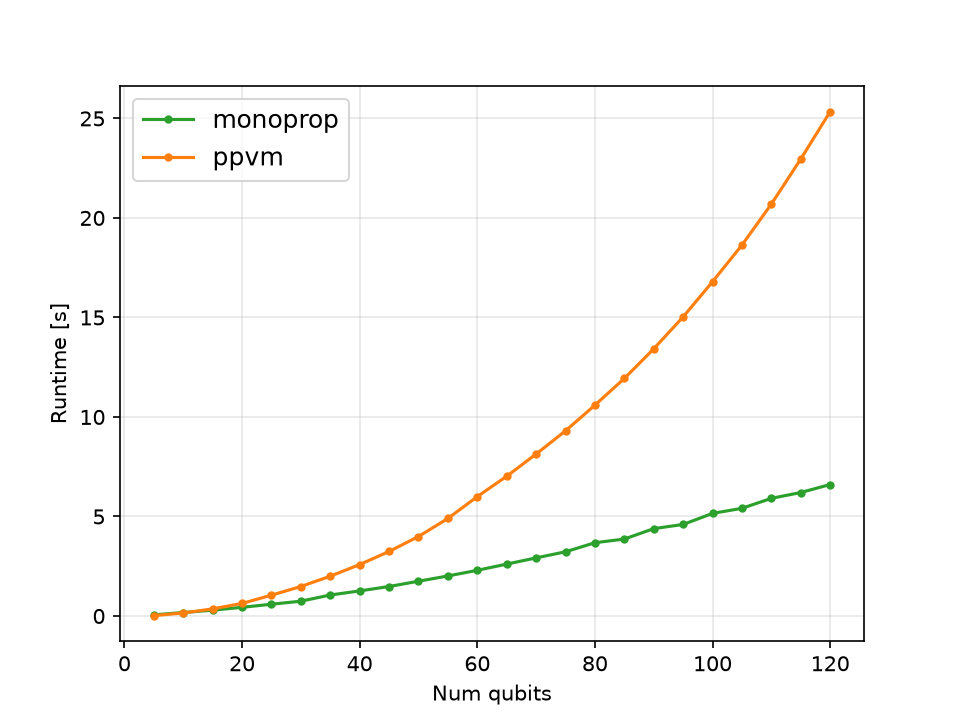
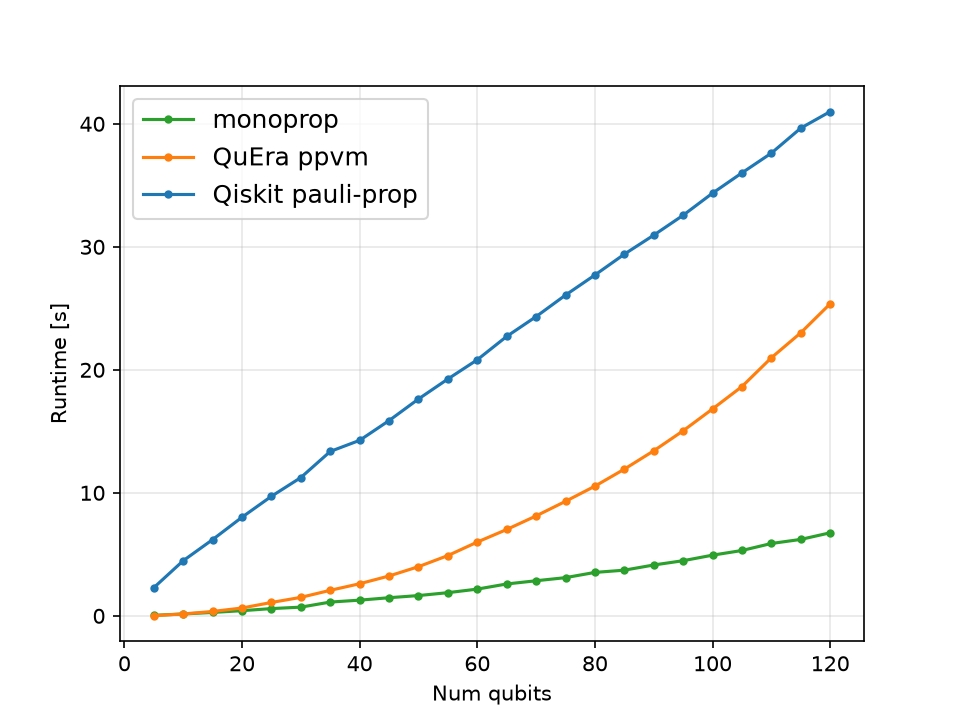
add comparison with qiskit pauli-prop

diff --git a/benchmarks/monoprop_vs_pauliprop/trotter_ising.py b/benchmarks/monoprop_vs_pauliprop/trotter_ising.py
@@ -18,13 +18,13 @@ from __future__ import annotations
 import time
 
 import pylab as plt
+from monoprop import MonomialPropagator, jordan_wigner_basis_change
+from monoprop.qiskit_conversion import from_qiskit_circuit, from_qiskit_operator
+from pauli_prop import propagate_through_circuit
 from ppvm import PauliSum
 from qiskit.circuit import QuantumCircuit
 from qiskit.quantum_info import SparsePauliOp
 from tqdm import tqdm
-
-from monoprop import MonomialPropagator, jordan_wigner_basis_change
-from monoprop.qiskit_conversion import from_qiskit_circuit, from_qiskit_operator
 
 ########################### SETTINGS ##########################
 h = 1.0
@@ -42,11 +42,13 @@ lower_atol = 1e-8
 
 labels = [
     "monoprop",
-    "ppvm",
+    "QuEra ppvm",
+    "Qiskit pauli-prop",
 ]
 colors = {
     "monoprop": "tab:green",
-    "ppvm": "tab:orange",
+    "QuEra ppvm": "tab:orange",
+    "Qiskit pauli-prop": "tab:blue",
 }
 runtimes_dict = {label: [] for label in labels}
 
@@ -102,7 +104,19 @@ for nq in tqdm(qubit_range, desc="Running simulations", ncols=80):
     ppvm_expval = ppvm_obs.overlap_with_zero()
     t2 = time.perf_counter()
 
-    runtimes_dict["ppvm"].append(t2 - t1)
+    runtimes_dict["QuEra ppvm"].append(t2 - t1)
+
+    # ------------------------------- pauli-prop -------------------------------
+    # Re-uses circ and obs already built in the monoprop section.
+    # pauli-prop truncates by max_terms (keep largest N terms) + atol, whereas
+    # monoprop/ppvm truncate by Pauli weight; the comparison is approximate.
+    t1 = time.perf_counter()
+    evolved_obs, _ = propagate_through_circuit(
+        obs, circ, max_terms=10_000, atol=lower_atol, frame="h"
+    )
+    expval = float(evolved_obs.coeffs[~evolved_obs.paulis.x.any(axis=1)].sum())
+    t2 = time.perf_counter()
+    runtimes_dict["Qiskit pauli-prop"].append(t2 - t1)
 
 
 fig1, ax1 = plt.subplots()
